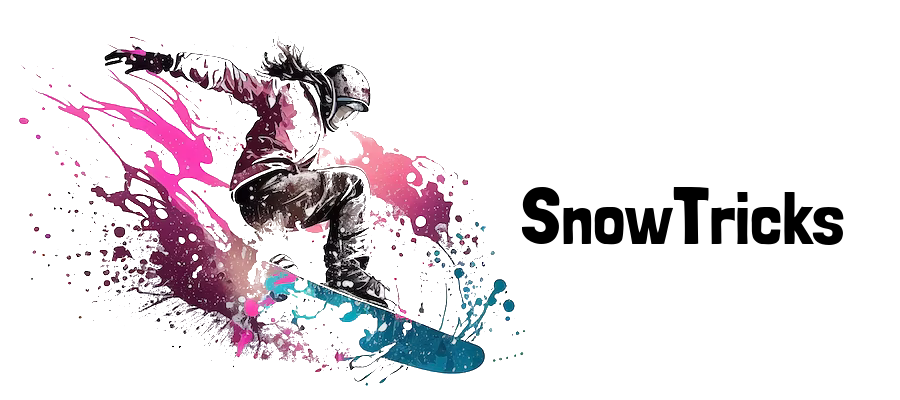
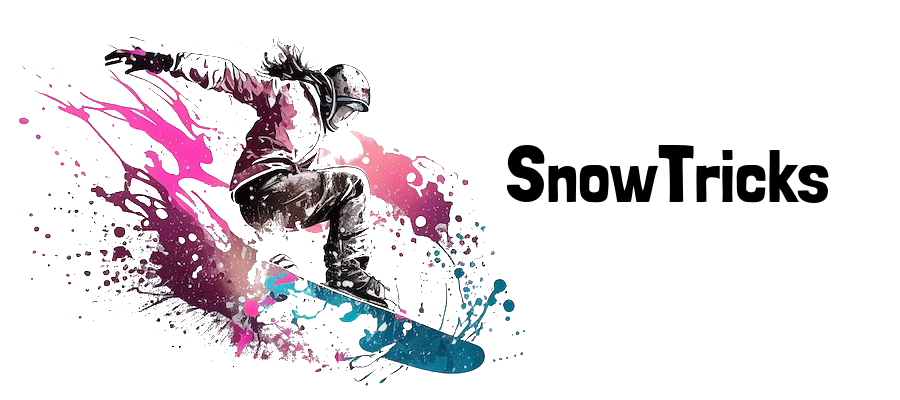
update the home base head and footer templates and add css file to edit the display home

Changed region(s): [[0.56, 0.36, 0.9333, 0.63]]

diff --git a/public/css/style.css b/public/css/style.css
@@ -1,0 +1,52 @@
+body {
+    display: flex;
+    min-height: 100vh;
+    flex-direction: column;
+}
+
+main {
+    flex: 1;
+}
+
+.main-title {
+    position: relative;
+}
+
+.main-title img {
+    max-width: 100%;
+}
+
+.hook {
+    font-family: "Londrina Solid", sans-serif;
+    font-weight: 300;
+}
+
+.marker-blue {
+    color: #1a7087;
+}
+
+/* sm */
+@media (min-width: 576px) {
+    .main-title .hook {
+        font-size: 20px;
+        position: absolute;
+        top: 55%;
+        right: 10px;
+        left: 56.1%;
+    }
+}
+
+/* md */
+@media (min-width: 768px) {
+    
+}
+
+/* lg */
+@media (min-width: 992px) {
+    
+}
+
+/* xl */
+@media (min-width: 1200px) {
+    
+}
